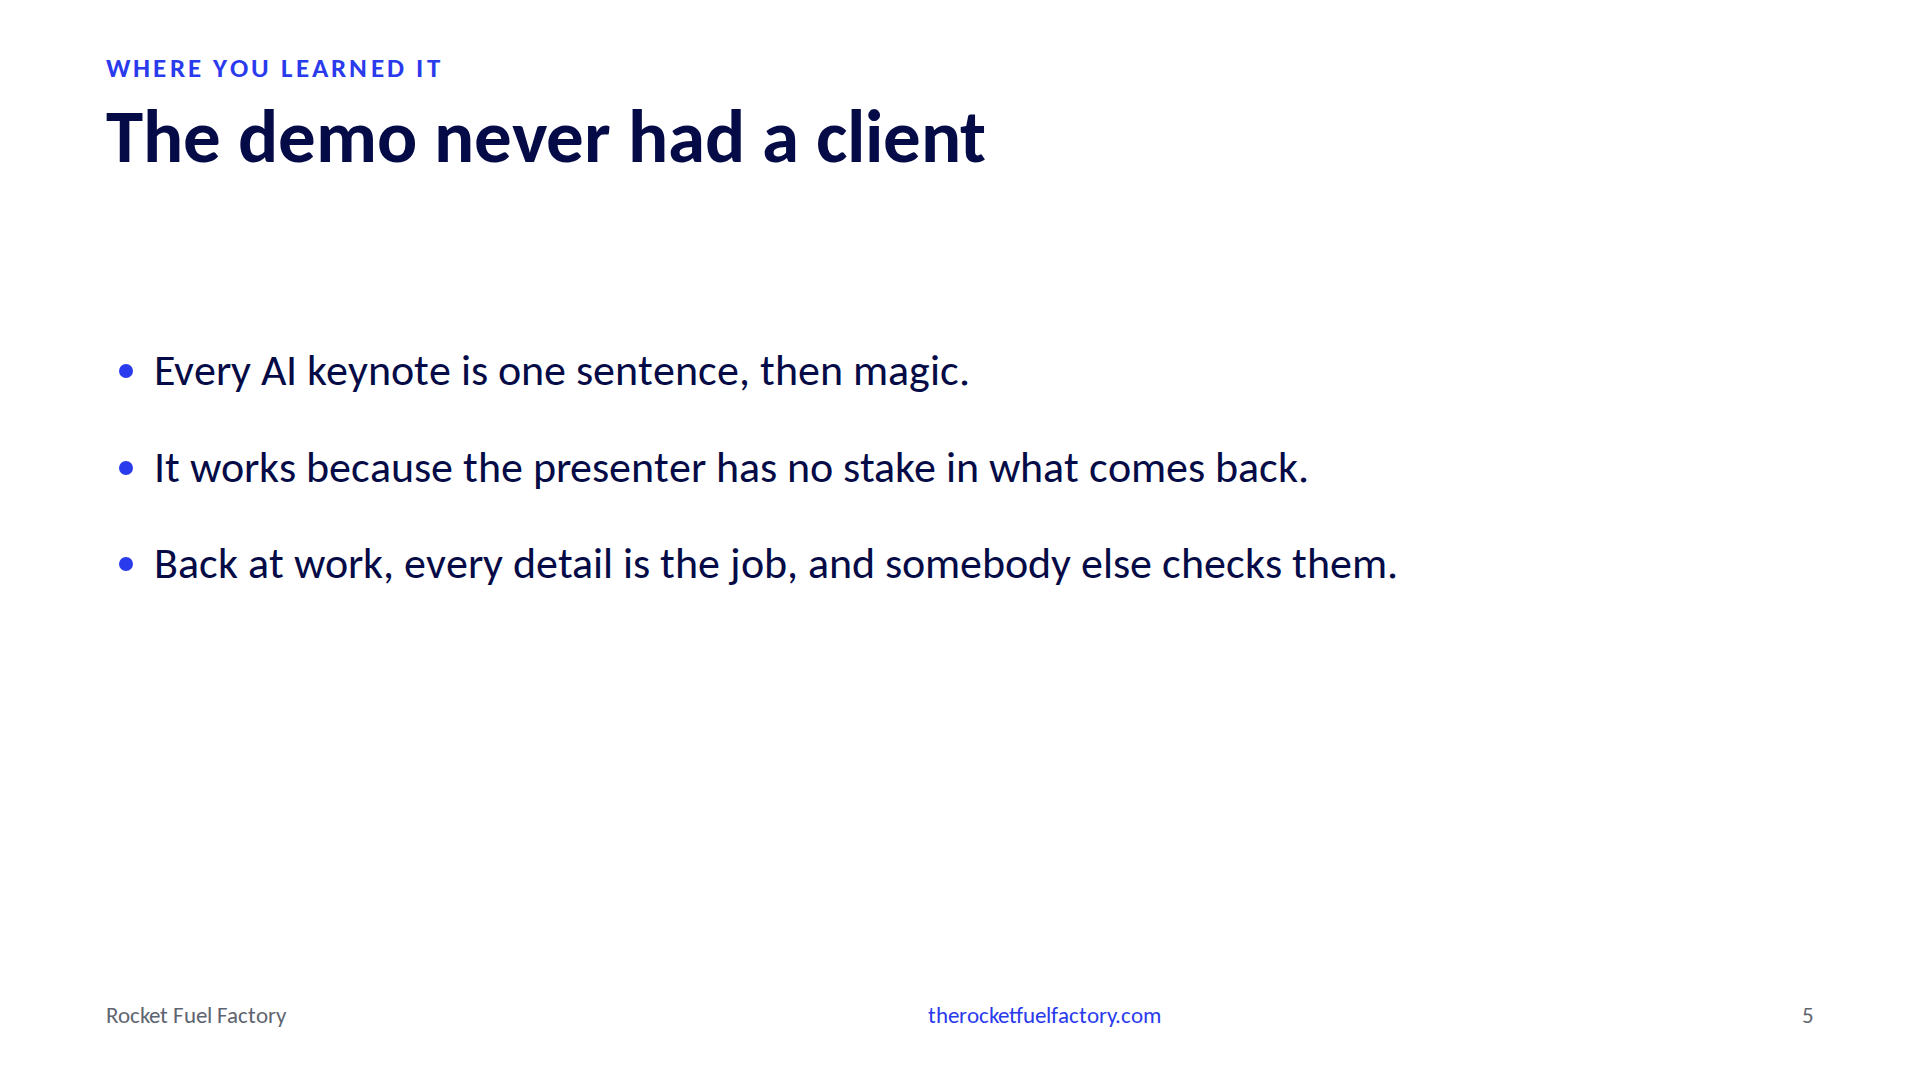
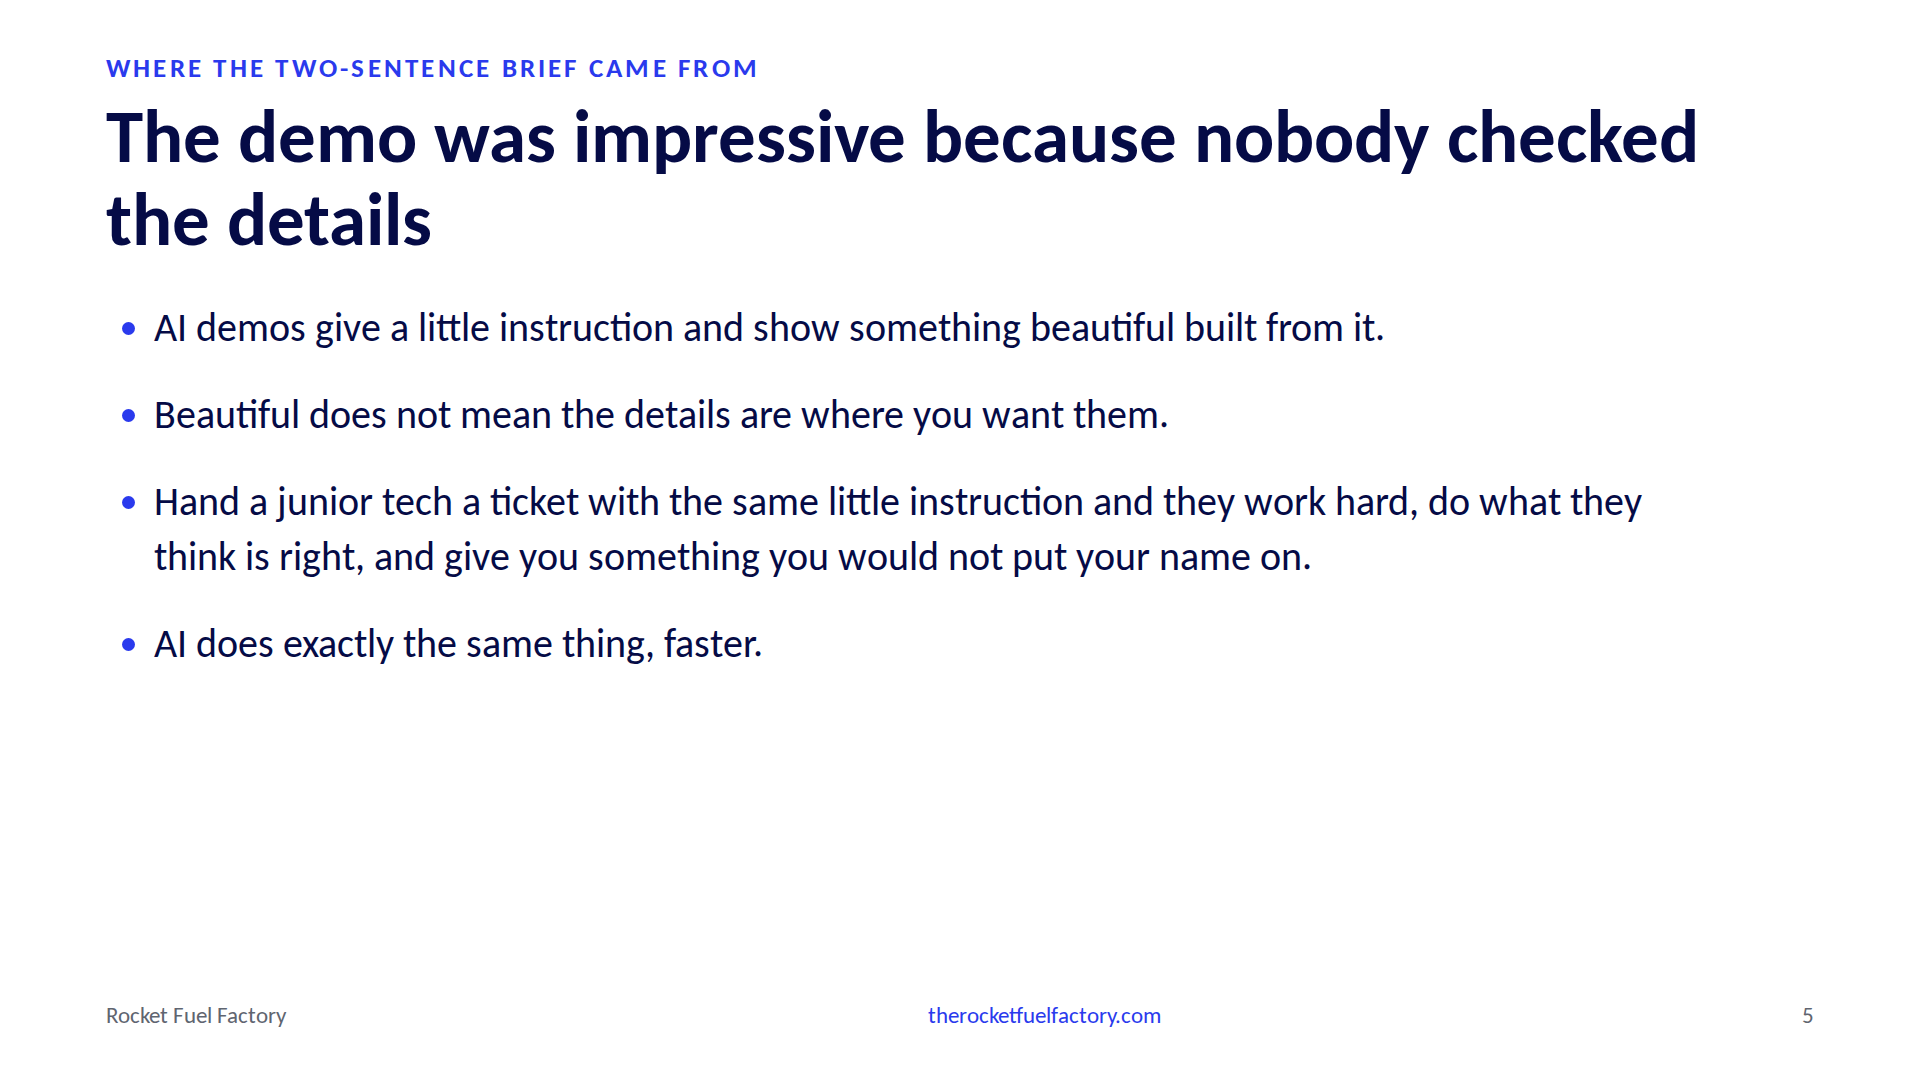
Slide 5 in Tim's words: the demo was impressive because nobody checked the details
Claude-Session: https://claude.ai/code/session_01HRMTnqCi7ggkLqdfhgoRdY

diff --git a/src/data/notes.js b/src/data/notes.js
@@ -8,7 +8,7 @@ export const notes = {
   automatons: 'Target 0:20. SLOW. You have a name in your head right now. You are not afraid of them taking a week off because they are lazy, or because the team is thin. You are afraid because when they are out, things go wrong that nobody can explain, and the client is the one who notices. Keep that name. This talk is about that person, and about why the work they do has never made it out of their head.',
   'the-typing-is-hiding-a-decision': 'Target 1:00. SLOW. Here is a piece of what that person carries. Take the alert that fires every night at two. They know it clears itself. They also know the one that looks identical and does not. That is a decision, and it is not in any document. Nobody has asked them for it, including you. That is also why the hire does not fix it. A new person cannot learn what nobody has written down, so in six months you have two people you cannot spare instead of one. That is why the vacation request scares you, and it is not their fault. Here is how it got that way.',
   'abdicate-not-delegate': 'Target 2:30. You hand a job to your senior tech with about two sentences, and it comes back right, so you assume the two sentences were good. They were not. That person was making a dozen small calls you never mentioned, and making them the way you would have. Then you give the same two sentences to somebody new. What comes back is wrong, and you decide the new person is not working out. The brief was the problem both times. Look at the left column. The rule for who gets a phone call took one sentence. Nobody in your shop has ever been asked for that sentence, and you have been paying for the guess instead. You only find out when you hand the job to somebody who cannot read your mind. You are about to hand that same two-sentence brief to something that has never met you.',
-  'the-demo-never-had-a-client': 'Target 4:10. Rant slide, about a minute. No vendor names. Every launch video this year: someone says one sentence, something impressive appears, they say awesome, cut. Any answer would have been fine, because the only person checking was the person who asked. That is why one sentence was enough, and that is where you learned to ask that way. Do not mention the email or the ticket; the next slide opens it cold.',
+  'the-demo-never-had-a-client': 'Target 4:00. Everybody in this room has watched one of these. Somebody says a sentence, something gorgeous appears, the room claps. What you did not see is anyone checking whether the details were right, because in a demo nobody has to. So you go back to work and try it the same way, one sentence and a paste. And you get what you would get from a junior tech with the same instruction: real effort, a reasonable guess at what you meant, and something you would not send. Here is what that looks like.',
   'demo-weak': 'Target 4:50. The mirror. This is what everyone in the room actually does: one line, paste the ticket. Read the line. Point at the ticket: it has everything a tech needs. Full waiting room, FGT-60F, Phase 1, DigiCert, and the aside that we flagged this cert in Q2 and nobody approved the renewal. Your best tech reads that and knows what to leave out. This reader has no idea who Dana is. Click.',
   'demo-weak-output': 'Target 5:40. Whole thing, two columns, so they can see how long it is. Read it as Dana. Ticket number in the subject line. Bold section headers like an incident report. Bottom right: Your Company Name, it did not know who was speaking. Then the blue sentence. Read it aloud: this certificate had actually been flagged for renewal in our Q2 review, and we are correcting the gap that let it lapse. That is the one line in the ticket you would never put in front of a client, and it is now in an email Dana forwards to the practice owner. When I reran this, it did that two times out of three. The third time it hid it. You did not get a vote either way. Line to land: you pasted the ticket, it told your client what you never approved. Then: it did exactly what you wrote. So did your tech. This one was fast enough for you to notice.',
   'demo-brief': 'Target 8:25. Now you know what to say. Same ticket pasted underneath; these are the words that went above it, in plain prose. Point at what the machine asked for and you supplied: who Dana is and that she forwards it to Dr. Patel, do not quote the ticket, the Q2 conversation is for me and the owner, no patient data because that is what she asked on the phone, and on top of it means monitoring by Friday. This is delegating.',

diff --git a/src/components/slides/005-TheDemoNeverHadAClient.jsx b/src/components/slides/005-TheDemoNeverHadAClient.jsx
@@ -1,21 +1,25 @@
 import ContentFrame from '../chrome/ContentFrame'
 
-// Rant slide. The bullets are what Tim says, so the room can photograph it.
+// Where the two-sentence brief came from. Tim's words.
 export default function TheDemoNeverHadAClient({ slideNumber }) {
   return (
     <ContentFrame
-      eyebrow="Where you learned it"
-      title="The demo never had a client"
+      eyebrow="Where the two-sentence brief came from"
+      title="The demo was impressive because nobody checked the details"
       accent="blue"
       slideNumber={slideNumber}
     >
       <ul
-        className="absolute list-disc pl-[48px] text-[44px] leading-snug text-rff-navy marker:text-rff-blue"
-        style={{ left: 106, top: 340, width: 1500 }}
+        className="absolute list-disc pl-[48px] text-[40px] leading-snug text-rff-navy marker:text-rff-blue"
+        style={{ left: 106, top: 300, width: 1600 }}
       >
-        <li>Every AI keynote is one sentence, then magic.</li>
-        <li className="mt-[36px]">It works because the presenter has no stake in what comes back.</li>
-        <li className="mt-[36px]">Back at work, every detail is the job, and somebody else checks them.</li>
+        <li>AI demos give a little instruction and show something beautiful built from it.</li>
+        <li className="mt-[32px]">Beautiful does not mean the details are where you want them.</li>
+        <li className="mt-[32px]">
+          Hand a junior tech a ticket with the same little instruction and they work hard, do what they think is right,
+          and give you something you would not put your name on.
+        </li>
+        <li className="mt-[32px]">AI does exactly the same thing, faster.</li>
       </ul>
     </ContentFrame>
   )

diff --git a/docs/OUTLINE.md b/docs/OUTLINE.md
@@ -39,7 +39,7 @@ Closing line: If you can't write the rule, you can't hire your way out of it eit
 3. Which alert is noise. Which client wants the details. Which ticket gets a phone call. Orange: those are decisions, and they are not in any document. Eyebrow: what they decide all day. SLOW. Slide 2 is the person, slide 3 is a piece of what they carry. Note tells one case (the 2am alert that clears itself and the identical one that does not) rather than reading the list, then lands the title: a new hire cannot learn what nobody has written down, so hiring gives you two people you cannot spare. No Adobe here; that line belongs to Mike at slide 12. Bridge to 4: here is how it got that way.
 
 4. Handing over the work is not the same as delegating (comparison, blue). One of slide 3's decisions made concrete. When you delegate: you hand them the queue; you wrote the rule down (call on any P1, and on anything from a client who has called twice); they check the ticket against that. When you hand over the rules too: you hand them the queue; you left the rule to them (use your judgment); they guess, and with luck they guess right. Closing, Tim's line: your best employees are the ones who usually guess right. The word is rule (what gets written), not decision (what the tech does) or judgment (what is in their head). Note: the two-sentence brief that works on your senior tech and fails on the new person; the rule took one sentence and nobody was ever asked for it; last line points at the demo without naming AI.
-5. The demo never had a client (three bullets, blue). Every AI keynote is one sentence, then magic. It works because the presenter has no stake in what comes back. Back at work, every detail is the job, and somebody else checks them. Bullets are Tim's own outline sentences so the photo matches the rant. Tim rants over it, about a minute. No vendor names, nothing about the email; slide 7 opens cold. Astra launch frames and transcript were tried and dropped (docs/astra/); a picture of the demo does not show the absence of a client.
+5. The demo was impressive because nobody checked the details (bullets, blue). Tim's point in his words: AI demos give a little instruction and show something beautiful built from it; beautiful does not mean the details are where you want them; a junior tech given the same little instruction works hard, does what they think is right, and hands you something you would not put your name on; AI does the same thing, faster. Note: nobody checked the details because in a demo nobody has to; you try it the same way at work; here is what that looks like. Nothing about the email; slide 6 opens cold.
 6. Abdicating to a machine (full-width ask). What everyone actually does: one line ("Write an email to the client about this. Apologize and let them know we're on top of it.") above a pasted PSA ticket. The ticket has everything a tech needs: full waiting room, FGT-60F, Phase 1, DigiCert, and the aside that this cert was flagged in the Q2 review and nobody approved the renewal. Every fact.
 7. What the client would have received (full-width output, whole, two columns). Ticket number in the subject. Incident-report headers. Placeholder sign-off. And in blue, the machine's own sentence to Dana: this certificate had actually been flagged for renewal in our Q2 review, and we're correcting the gap that let it lapse. The one line in the ticket you would never put in front of a client, now in an email she forwards to the practice owner. Reran it three times: disclosed twice, hidden once, you did not get a vote either way. Line: you pasted the ticket, it told your client what you never approved. Then: it did exactly what you wrote. So did your tech. This one was fast enough for you to notice.
 8. Ask it how to ask better (prompt/output). Bridge, said aloud first: this is where most people get frustrated and stop. Do not stop, and do not just ask it to try again. Ask it how you should have asked. Its five items: who is actually reading it, what on top of it was supposed to mean, whether the Q2 detail was a feature or a liability, tone register, any business ask riding along. Punchline, its own words about the leak: I put it in. That's a 50/50 guess I shouldn't have made silently. Quiet. Try this tonight.
@@ -61,7 +61,6 @@ Closing line: If you can't write the rule, you can't hire your way out of it eit
 ## Lines to drop verbatim, once each
 
 - Whose vacation request do you dread approving?
-- The demo never had a client.
 - It did exactly what you wrote. So did your tech. This one was fast enough for you to notice.
 - Same tool. Same task. The only thing that changed was how you asked.
 - I put it in. That's a 50/50 guess I shouldn't have made silently. (the machine's line, read off the slide)
